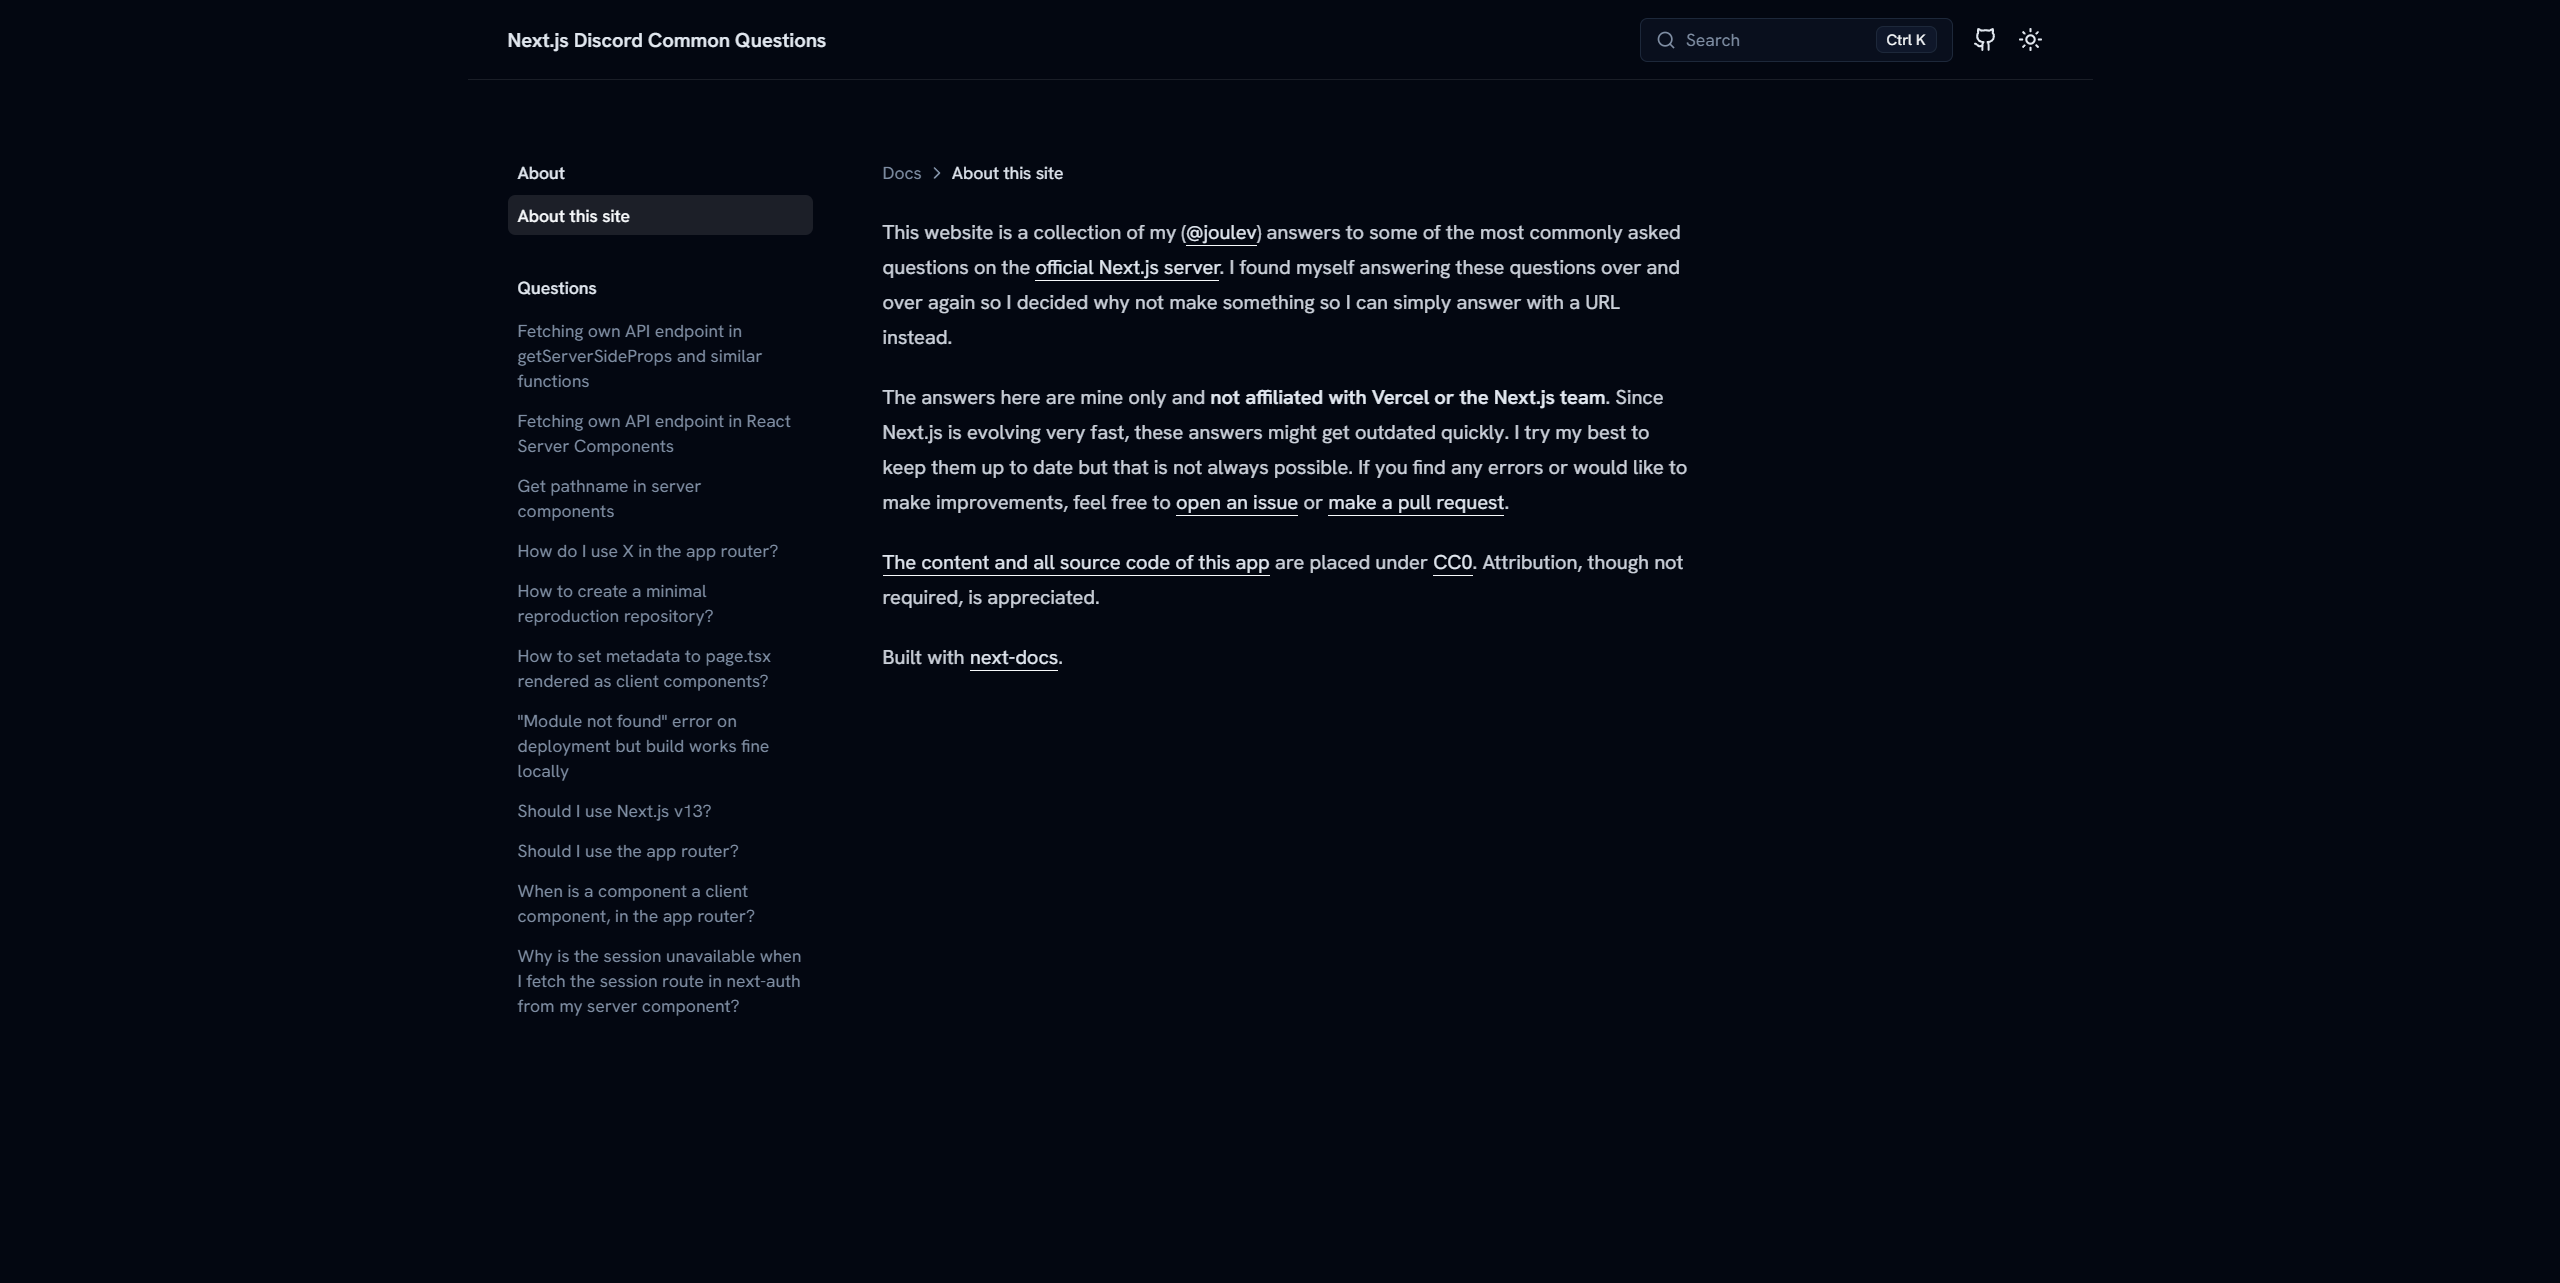
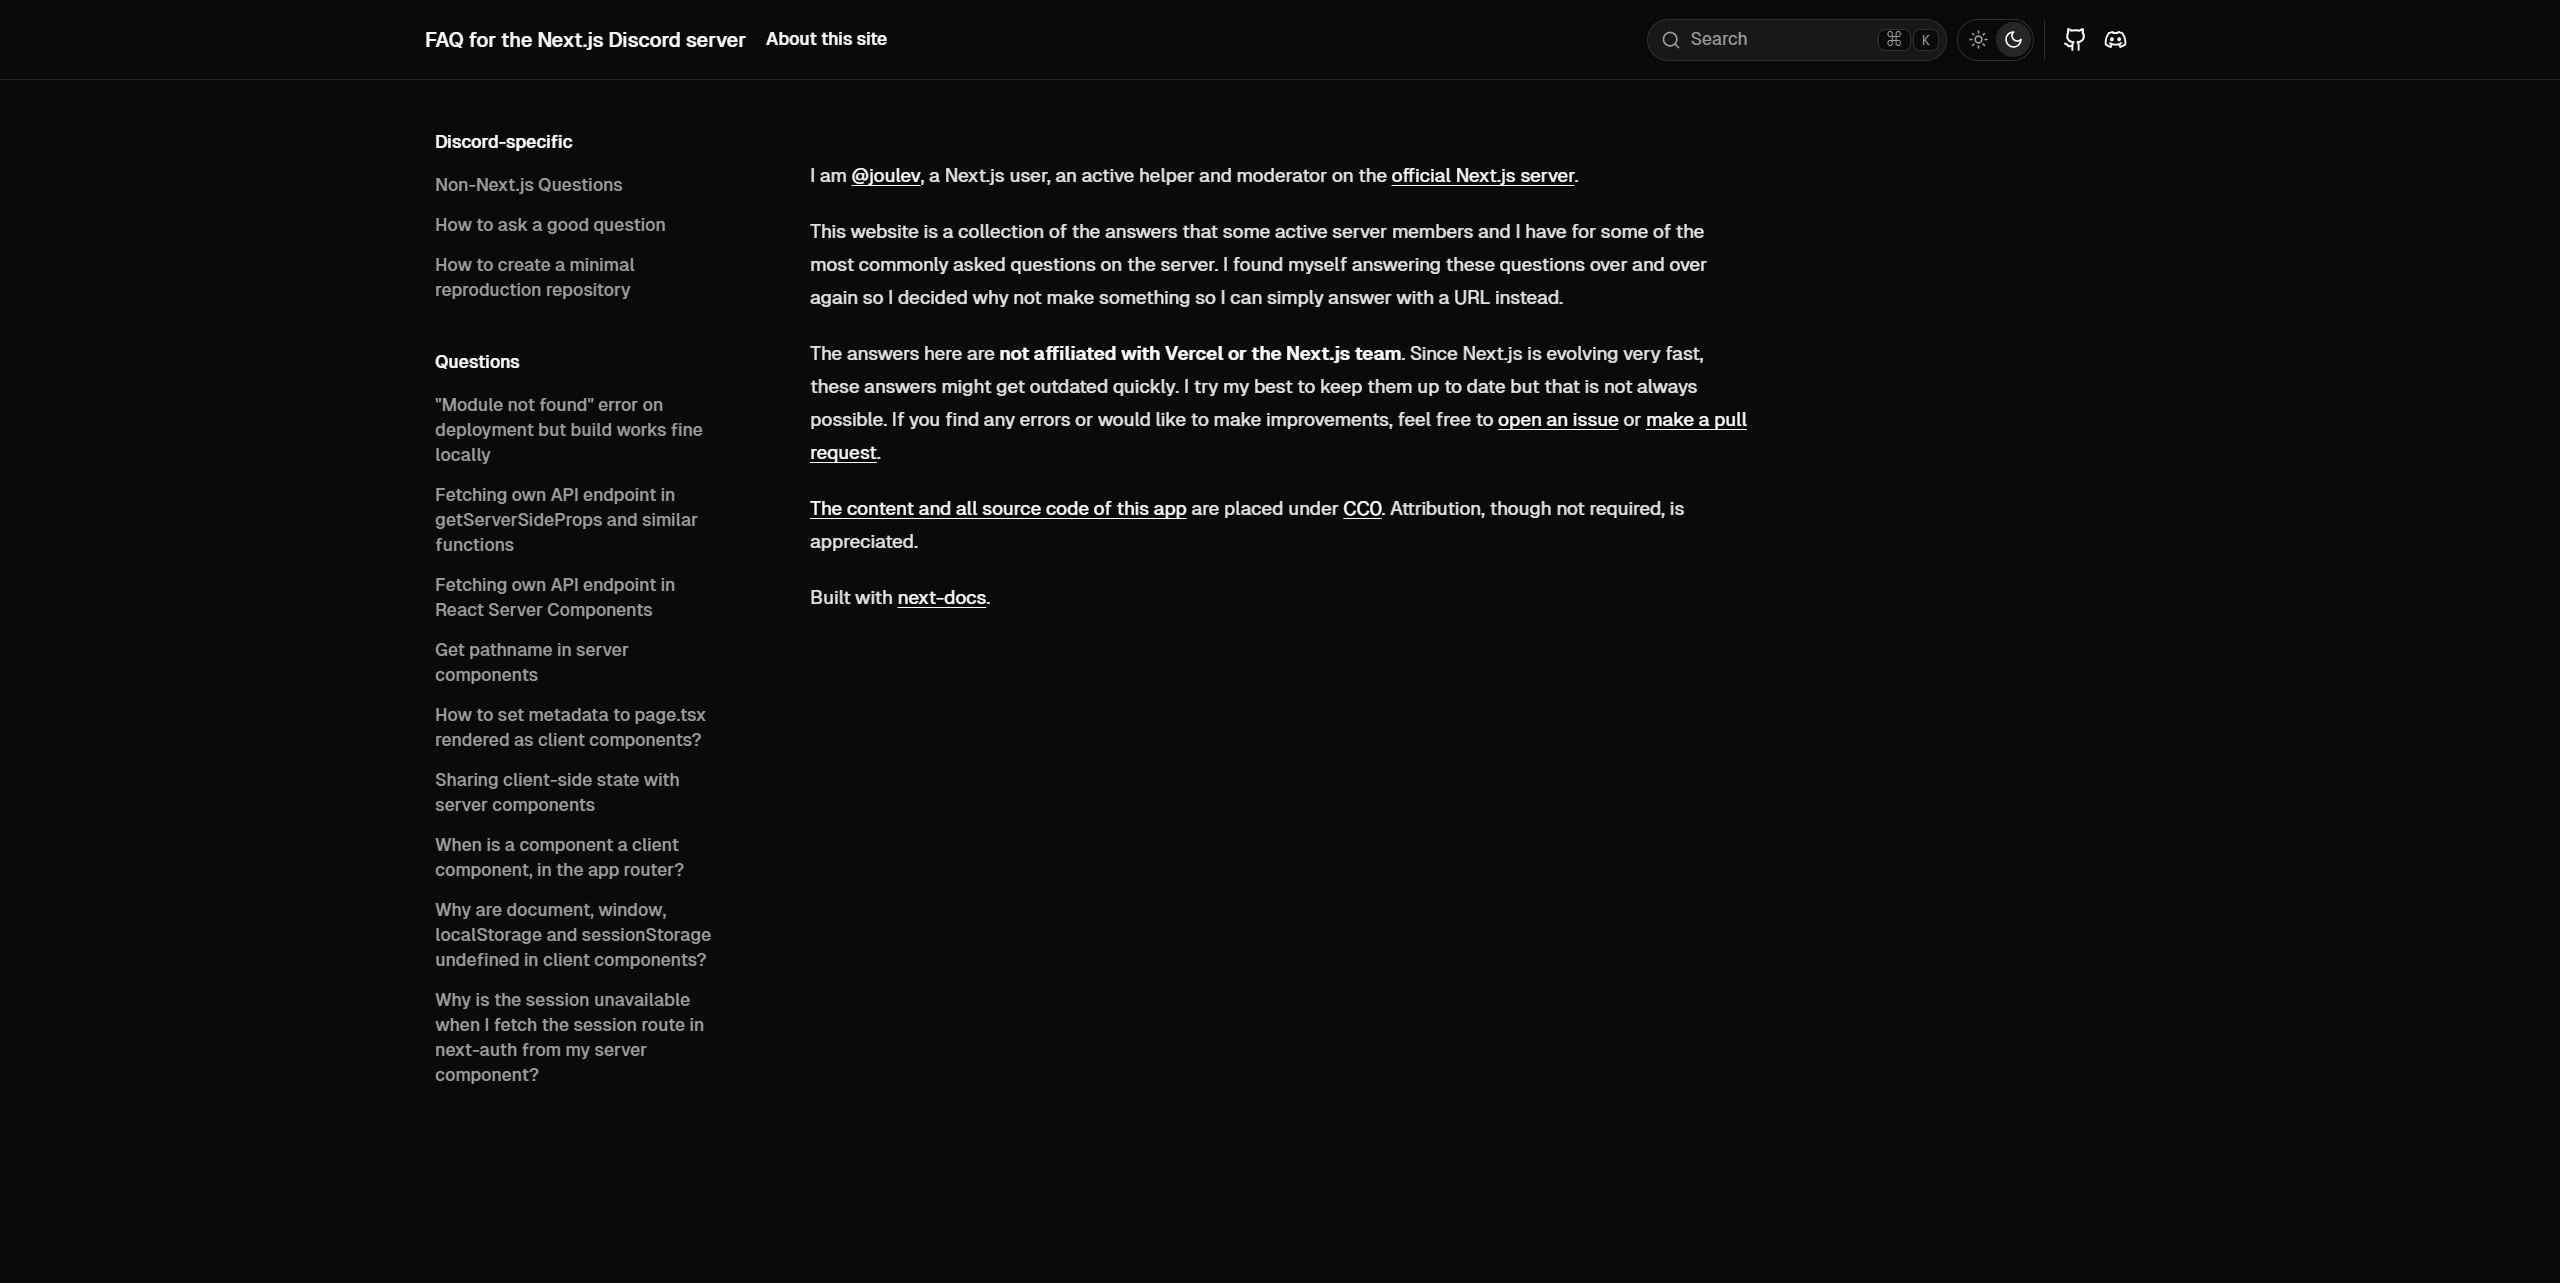
Rewrite showcase page

diff --git a/apps/docs/app/showcase/page.tsx b/apps/docs/app/showcase/page.tsx
@@ -1,5 +1,7 @@
+import { buttonVariants } from '@/components/ui/button'
 import NextFAQImage from '@/public/showcases/next-faq.png'
 import YeecordImage from '@/public/showcases/yeecord.png'
+import { cn } from '@/utils/cn'
 import { createMetadata } from '@/utils/metadata'
 import { PlusIcon } from 'lucide-react'
 import Image from 'next/image'
@@ -23,19 +25,41 @@ export default function Showcase() {
   ] as const
 
   return (
-    <main className="container py-20">
-      <h1 className="font-bold text-3xl mb-4">Showcase</h1>
+    <main className="container flex flex-col items-center text-center py-16">
+      <div className="absolute top-16 w-full h-[120px] bg-gradient-to-r from-red-500/20 via-purple-500/50 to-blue-500/20 opacity-50 z-[-1]">
+        <div
+          className="absolute inset-0"
+          style={{
+            backgroundImage:
+              'repeating-linear-gradient(to right, hsl(var(--primary)/.4) 1px,transparent 2px,transparent 40px), repeating-linear-gradient(to bottom, hsl(var(--primary)/.4) 1px,transparent 2px,transparent 40px)'
+          }}
+        />
+        <div className="absolute inset-0 bg-gradient-to-t from-background" />
+      </div>
+
+      <h1 className="font-semibold text-3xl mb-4 lg:text-4xl">Showcase</h1>
       <p className="text-muted-foreground">
         Some cool websites using Next Docs
       </p>
-      <div className="grid grid-cols-1 gap-4 mt-8 animate-in fade-in slide-in-from-bottom-20 duration-700 md:grid-cols-2 xl:grid-cols-3">
+      <div className="mt-4">
+        <a
+          href="https://github.com/fuma-nama/next-docs/discussions/30"
+          target="_blank"
+          rel="noreferrer noopener"
+          className={cn(buttonVariants())}
+        >
+          <PlusIcon className="w-4 h-4 mr-2" />
+          Add Your Own
+        </a>
+      </div>
+      <div className="grid grid-cols-1 gap-4 mt-12 animate-in fade-in slide-in-from-bottom-20 duration-1000 md:grid-cols-2 lg:grid-cols-3">
         {showcases.map(([image, name, href], key) => (
           <a
             key={key}
             href={href}
             target="_blank"
             rel="noreferrer noopener"
-            className="relative border rounded-lg group overflow-hidden transition-colors shadow-lg hover:shadow-primary/10 hover:border-primary/30"
+            className="relative border rounded-lg group overflow-hidden transition-all shadow-lg hover:shadow-primary/10 hover:border-primary/30"
           >
             <Image alt="Preview" src={image} placeholder="blur" />
             <p className="absolute inset-x-0 bottom-0 p-6 pt-8 mt-2 text-white text-sm font-medium bg-gradient-to-t from-black transition-all group-hover:[background-position-y:50px] bg-no-repeat">
@@ -43,16 +67,6 @@ export default function Showcase() {
             </p>
           </a>
         ))}
-
-        <a
-          href="https://github.com/fuma-nama/next-docs/discussions/30"
-          target="_blank"
-          rel="noreferrer noopener"
-          className="p-8 flex flex-col items-center text-center justify-center border rounded-lg bg-card text-muted-foreground transition-colors hover:bg-muted/80 hover:text-accent-foreground"
-        >
-          <PlusIcon className="w-7 h-7 mb-2" />
-          <p className="text-sm">Add Your Own</p>
-        </a>
       </div>
     </main>
   )

diff --git a/apps/docs/app/page.tsx b/apps/docs/app/page.tsx
@@ -691,17 +691,17 @@ export default function HomePage() {
             </div>
           </div>
           <div className="grid grid-cols-1 border-b divide-border md:grid-cols-2 md:divide-x lg:grid-cols-3">
-            <div className="relative flex flex-col px-6 py-16 overflow-hidden">
+            <div className="relative flex flex-col px-6 py-14 overflow-hidden">
               <Rain
                 width={500}
                 height={1000}
                 className="absolute inset-0 mix-blend-difference z-[-1]"
               />
-              <h2 className="text-3xl font-semibold">
+              <h2 className="text-3xl font-bold">
                 Create your first documentation.
               </h2>
-              <ul className="flex flex-col mt-12 gap-6">
-                <li className="text-lg">
+              <ul className="flex flex-col my-8 gap-6">
+                <li>
                   <span className="font-medium">
                     <BatteryChargingIcon className="inline" /> Battery
                     guaranteed.
@@ -710,7 +710,7 @@ export default function HomePage() {
                     Actively maintained, open for contributions.
                   </span>
                 </li>
-                <li className="text-lg">
+                <li>
                   <span className="font-medium">
                     <GithubIcon className="inline" /> Fully open-source.
                   </span>
@@ -718,7 +718,7 @@ export default function HomePage() {
                     Open source, available on Github.
                   </span>
                 </li>
-                <li className="text-lg">
+                <li>
                   <span className="font-medium">
                     <TimerIcon className="inline" /> Within seconds.
                   </span>
@@ -727,28 +727,30 @@ export default function HomePage() {
                   </span>
                 </li>
               </ul>
-            </div>
-            <div className="relative overflow-hidden lg:col-span-2">
-              <div className="absolute inset-0 flex flex-col items-center justify-center z-[2]">
-                <CodeBlock lang="bash" code="pnpm create next-docs-app" />
+              <div className="flex flex-row gap-2 mt-auto border-t pt-8">
+                <Link href="/docs" className={cn(buttonVariants())}>
+                  Read docs
+                </Link>
                 <a
                   href="https://githubbox.com/SonMooSans/next-docs-ui-template"
                   rel="noreferrer noopener"
                   className={cn(
                     buttonVariants({
-                      variant: 'outline',
-                      className: 'bg-background'
+                      variant: 'outline'
                     })
                   )}
                 >
                   Open in CodeSandbox
                 </a>
               </div>
+            </div>
+            <div className="relative flex flex-col items-center justify-center overflow-hidden p-8 lg:col-span-2">
               <Image
                 alt="demo"
                 src={Example}
-                className="invert blur-lg dark:invert-0"
+                className="absolute inset-0 w-full h-full invert blur-lg object-cover dark:invert-0"
               />
+              <CodeBlock lang="bash" code="pnpm create next-docs-app" />
             </div>
           </div>
         </div>

diff --git a/apps/docs/app/layout.tsx b/apps/docs/app/layout.tsx
@@ -1,9 +1,10 @@
 import { Nav } from '@/components/nav'
-import { ExternalLinkIcon, Star } from 'lucide-react'
+import { Star } from 'lucide-react'
 import { Inter } from 'next/font/google'
 import './style.css'
 import { base_url, createMetadata } from '@/utils/metadata'
 import type { Viewport } from 'next'
+import Link from 'next/link'
 import { Provider } from './provider'
 
 export const metadata = createMetadata({
@@ -63,7 +64,7 @@ function Footer() {
           </p>
         </div>
 
-        <div className="flex flex-row items-center gap-20">
+        <div className="flex flex-row items-center flex-wrap gap-12">
           <a
             href="https://github.com/fuma-nama/next-docs"
             rel="noreferrer noopener"
@@ -72,14 +73,12 @@ function Footer() {
             <Star className="mr-2 h-4 w-4" />
             Give us a star
           </a>
-          <a
-            href="https://www.npmjs.com/package/next-docs-zeta"
-            rel="noreferrer noopener"
+          <Link
+            href="/showcase"
             className="flex flex-row items-center text-sm text-muted-foreground transition-colors hover:text-accent-foreground"
           >
-            <ExternalLinkIcon className="mr-2 h-4 w-4" />
-            NPM registry
-          </a>
+            Showcase
+          </Link>
         </div>
       </div>
     </footer>

diff --git a/apps/docs/app/docs/page.tsx b/apps/docs/app/docs/page.tsx
@@ -30,10 +30,10 @@ export default function DocsPage() {
           Next Docs UI
         </Link>
         <Link
-          href="/docs/headless"
+          href="/showcase"
           className={cn(buttonVariants({ variant: 'outline', size: 'lg' }))}
         >
-          Headless
+          Showcase
         </Link>
       </div>
       <div className="grid grid-cols-1 gap-4 mt-16 text-left md:grid-cols-2 lg:grid-cols-3">